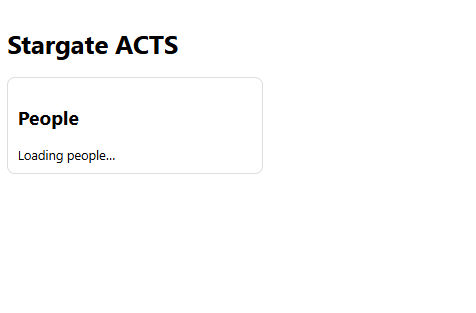
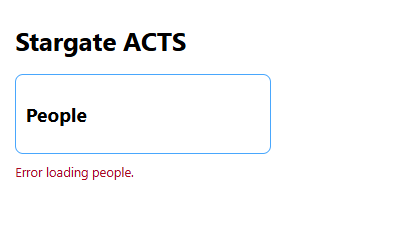
update README

diff --git a/src/app/app.css b/src/app/app.css
@@ -10,7 +10,7 @@
 }
 
 .card {
-    border: 1px solid #ddd;
+    border: 1px solid #00aeff;
     border-radius: 10px;
     padding: 12px;
 }

diff --git a/README.md b/README.md
@@ -3,8 +3,8 @@
 ![A picture of the interface.](./src/assets/images/screenshot.png)
 
 
-https://greentree31.github.io/stargate-new-ui/
+
 
 ## Description
 
-This is a mockup site for an application.
+This is a mockup site for a test application.
